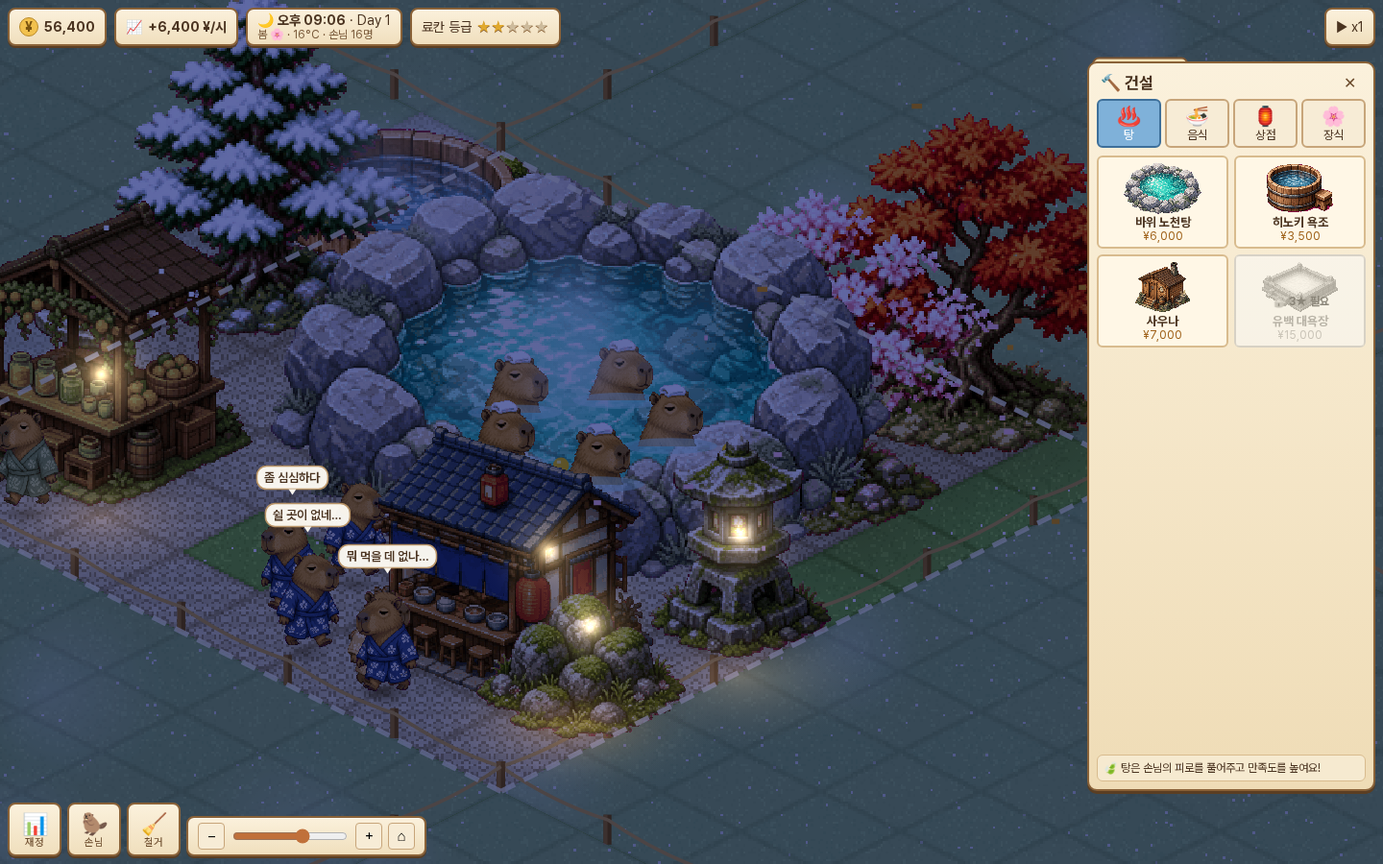
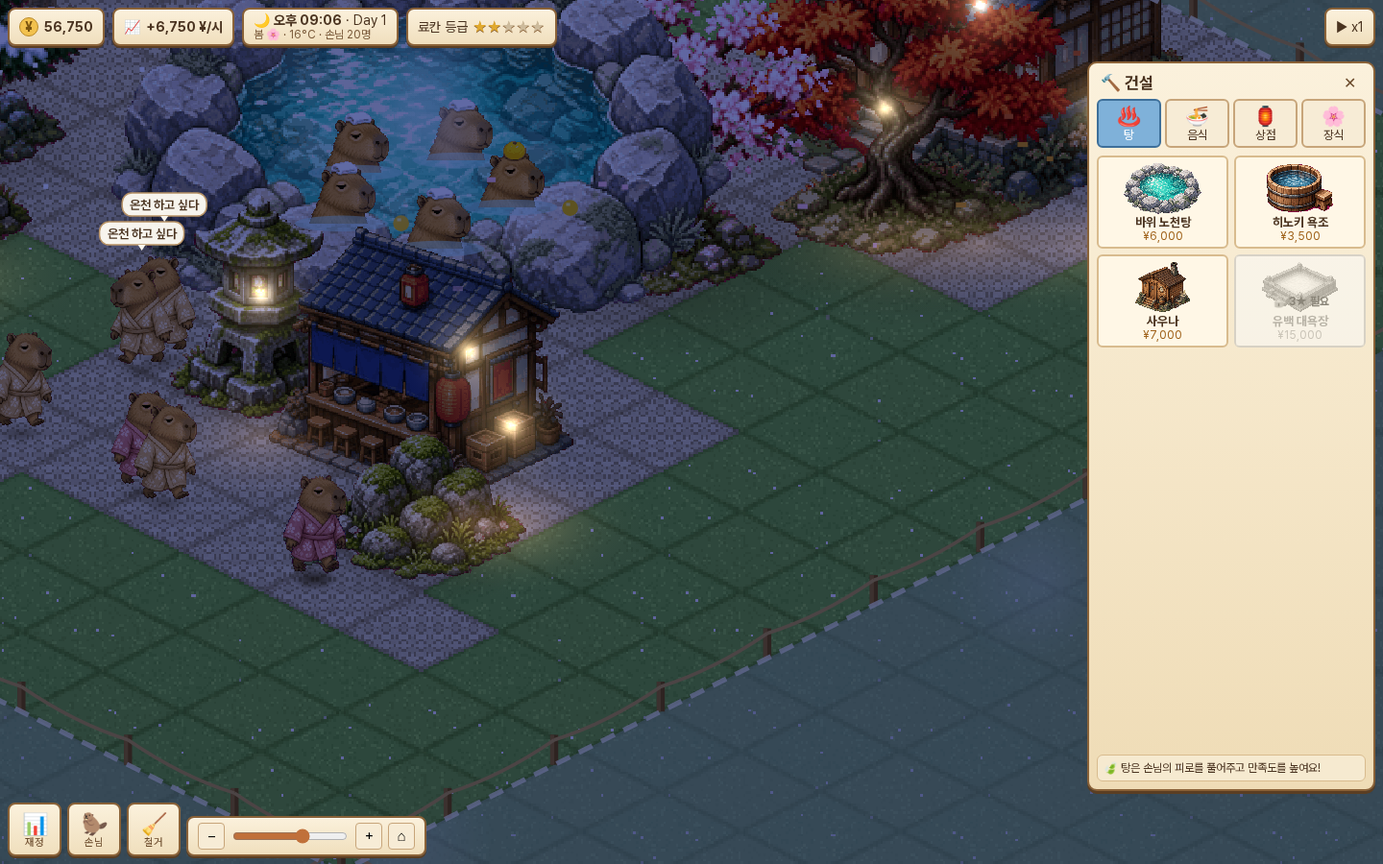
v2.2: move mode (dblclick/double-tap/long-press, info 이동 button), 16x16 plots on 48x48 map, layout migration, cached tile textures, dynamic zoom-out limit

diff --git a/game.js b/game.js
@@ -1,6 +1,6 @@
 'use strict';
 // ===== 설정 =====
-const N=32,PS=8,TW=32,TH=16;           // 맵 24x24, 구역 6x6
+const N=48,PS=16,TW=32,TH=16;           // 맵 24x24, 구역 6x6
 const START_PLOT=[1,1];
 const $=id=>document.getElementById(id);
 const cv=$('c'),cx=cv.getContext('2d'),tc=$('tc'),tx=tc.getContext('2d');
@@ -32,8 +32,8 @@ let S;
 function fresh(){
  const plots={};plots[START_PLOT.join(',')]=1;
  const o=[];const b=(k,x,y)=>o.push({k,x,y,lv:1,price:DEF[k].price||0,uses:0,earn:0});
- b('rock',10,9);b('lantern',9,14);b('sakura',14,10);b('rocks',9,9);for(let i=8;i<16;i++)b('path',i,15);for(let j=13;j<15;j++)b('path',12,j);
- return {yen:8000,min:8*60+40,plots,objs:o,fin:{inc:0,exp:0,hist:[]},rep:55,t:Date.now(),served:0,ver:2};
+ b('rock',22,21);b('lantern',21,26);b('sakura',26,22);b('rocks',21,21);b('lantern',25,26);for(let j=25;j<32;j++)b('path',24,j);for(let i=19;i<30;i++)if(i!=24)b('path',i,28);
+ return {layout:16,yen:8000,min:8*60+40,plots,objs:o,fin:{inc:0,exp:0,hist:[]},rep:55,t:Date.now(),served:0,ver:2};
 }
 function load(){
  try{const d=JSON.parse(localStorage.onsen2||'null');if(d&&d.ver==2){S=d;
@@ -43,6 +43,9 @@ function load(){
    return}}catch(e){}
  S=fresh();
 }
+function migrateLayout(){if(S.layout==16)return;const old=Object.keys(S.plots).length-1;let ref=0;
+ for(const k in S.plots)if(k!='1,1')ref+=12000;S.plots={'1,1':1};S.yen+=ref;
+ for(const o of S.objs){o.x=o.x-8+20;o.y=o.y-8+20}S.layout=16;if(ref)setTimeout(()=>toast(`구역이 16×16으로 커졌어요! 추가 구역 비용 ¥${fmt(ref)} 환불`),2000)}
 function migrate(){ // 겹치거나 잠긴 땅의 건물 → 재배치 또는 환불
  const keep=[],m={};let moved=0,refund=0;const fits=(o,x,y)=>{const f=DEF[o.k].fp;for(let i=0;i<f;i++)for(let j=0;j<f;j++){if(!tileOpen(x+i,y+j)||m[(x+i)+','+(y+j)])return false}return true};
  const sorted=S.objs.filter(o=>DEF[o.k]).sort((a,b)=>(DEF[b.k].bath?1:0)-(DEF[a.k].bath?1:0)||DEF[b.k].fp-DEF[a.k].fp);
@@ -70,12 +73,13 @@ const iso=(x,y)=>[(x-y)*TW/2,(x+y)*TH/2];
 function toScreen(wx,wy){return[(wx*cam.z+cam.x),(wy*cam.z+cam.y)]}
 function toTile(sx,sy){const wx=(sx-cam.x)/cam.z,wy=(sy-cam.y)/cam.z;return[(wy/(TH/2)+wx/(TW/2))/2,(wy/(TH/2)-wx/(TW/2))/2]}
 function focus(tx_,ty_,z){if(z)cam.z=cam.tz=z;const[wx,wy]=iso(tx_,ty_);cam.x=VW*(VW>820?0.42:0.5)-wx*cam.z;cam.y=VH*(VW>820?0.5:0.33)-wy*cam.z}
-function zoomAt(sx,sy,z){z=Math.max(0.5,Math.min(8,z));cam.x=sx-(sx-cam.x)*z/cam.z;cam.y=sy-(sy-cam.y)*z/cam.z;cam.z=z}
+const zmin=()=>Math.min(0.5,Math.min(VW/(N*TW+60),VH/(N*TH+80))*0.95);
+function zoomAt(sx,sy,z){z=Math.max(zmin(),Math.min(8,z));cam.x=sx-(sx-cam.x)*z/cam.z;cam.y=sy-(sy-cam.y)*z/cam.z;cam.z=z}
 // ===== 구역 =====
 const plotOf=(x,y)=>[Math.floor(x/PS),Math.floor(y/PS)];
 const plotOpen=(px,py)=>!!S.plots[px+','+py];
 const tileOpen=(x,y)=>x>=0&&y>=0&&x<N&&y<N&&plotOpen(...plotOf(x,y));
-function plotPrice(px,py){const d=Math.abs(px-START_PLOT[0])+Math.abs(py-START_PLOT[1]);return Math.round(12000*Math.pow(2.3,d-1)/1000)*1000}
+function plotPrice(px,py){const d=Math.abs(px-START_PLOT[0])+Math.abs(py-START_PLOT[1]);return d<=1?20000:90000}
 function plotAdj(px,py){return [[1,0],[-1,0],[0,1],[0,-1]].some(([a,b])=>plotOpen(px+a,py+b))}
 const anims={};
 // ===== 지면 (오프스크린 픽셀 텍스처) =====
@@ -92,24 +96,34 @@ function buildGround(){
  for(let y=0;y<N;y++)for(let x=0;x<N;x++){
   const r=rng(x*928371+y*1237+7);const[ix,iy]=iso(x,y);const X=ox+ix,Y=iy;
   const key=x+','+y,isPath=pathSet.has(key),cob=isPath||near.has(key);
-  const id=g.createImageData(TW*2,TH*2);
-  for(let py=0;py<TH*2;py++)for(let px=0;px<TW*2;px++){
-   const dx=Math.abs(px+0.5-TW)/(TW),dy=Math.abs(py+0.5-TH)/(TH);if(dx+dy>1)continue;
-   let c;const n=r();
-   if(false){}if(cob){const sx=Math.floor((px+py*2)/7),sy=Math.floor((px-py*2+140)/7);const seam=((px+py*2)%7==0)||((px-py*2+140)%7==0);
-     const v=((sx*7+sy*13+x*3+y*5)%5)*6;c=seam?[150,140,124]:[196+v-n*10,186+v-n*10,166+v-n*8];}
-   else{const v=n<0.08?22:n<0.2?-12:0;const fl=n>0.995;c=fl?[255,240,246]:[118+v+((x+y)%2)*4,170+v,92+v*0.6];
-     if(n>0.985&&!fl)c=[150,196,108];}
-   const i=(py*TW*2+px)*4;id.data[i]=c[0];id.data[i+1]=c[1];id.data[i+2]=c[2];id.data[i+3]=255;}
-  const tmp=mk(TW*2,TH*2);tmp.getContext('2d').putImageData(id,0,0);g.drawImage(tmp,X-TW/2,Y,TW,TH);
+  const tmp=tileTex(cob,(x*7+y*13)%12,(x+y)%2);g.drawImage(tmp,X-TW/2,Y,TW,TH);
   g.beginPath();g.moveTo(X,Y+0.25);g.lineTo(X+TW/2-0.5,Y+TH/2);g.lineTo(X,Y+TH-0.25);g.lineTo(X-TW/2+0.5,Y+TH/2);g.closePath();
   g.lineWidth=0.5;g.strokeStyle=cob?'rgba(90,78,62,0.45)':'rgba(48,84,36,0.42)';g.stroke();
  }
  groundDirty=false;
 }
+const TEX={};
+function tileTex(cob,vr,par){const key=cob+'_'+vr+'_'+par;if(TEX[key])return TEX[key];const x=vr,y=vr*3+par;const r=rng(vr*928371+par*1237+(cob?99:7));
+  const id=new ImageData(TW*2,TH*2);
+  for(let py=0;py<TH*2;py++)for(let px=0;px<TW*2;px++){
+   const dx=Math.abs(px+0.5-TW)/(TW),dy=Math.abs(py+0.5-TH)/(TH);if(dx+dy>1)continue;
+   let c;const n=r();
+   if(false){}if(cob){const sx=Math.floor((px+py*2)/7),sy=Math.floor((px-py*2+140)/7);const seam=((px+py*2)%7==0)||((px-py*2+140)%7==0);
+     const v=((sx*7+sy*13+x*3+y*5)%5)*6;c=seam?[150,140,124]:[196+v-n*10,186+v-n*10,166+v-n*8];}
+   else{const v=n<0.08?22:n<0.2?-12:0;const fl=n>0.995;c=fl?[255,240,246]:[118+v+par*4,170+v,92+v*0.6];
+     if(n>0.985&&!fl)c=[150,196,108];}
+   const i=(py*TW*2+px)*4;id.data[i]=c[0];id.data[i+1]=c[1];id.data[i+2]=c[2];id.data[i+3]=255;}
+  const tmp=mk(TW*2,TH*2);tmp.getContext('2d').putImageData(id,0,0);return TEX[key]=tmp}
 // ===== 오브젝트 =====
-const occ=()=>{const m={};for(const o of S.objs){const f=DEF[o.k].fp;for(let i=0;i<f;i++)for(let j=0;j<f;j++)m[(o.x+i)+','+(o.y+j)]=o}return m};
-let OCC={};
+const occ=()=>{const m={};for(const o of S.objs){if(o===moving)continue;const f=DEF[o.k].fp;for(let i=0;i<f;i++)for(let j=0;j<f;j++)m[(o.x+i)+','+(o.y+j)]=o}return m};
+let OCC={};let moving=null,infoT=null;
+function startMove(o){clearTimeout(infoT);if(moving)cancelMove();$('info').style.display='none';mode=null;
+ guests.forEach(g=>{if(g.cur===o)finish(g);if(g.target===o){g.target=null;g.path=[]}});
+ moving=o;o._from=[o.x,o.y];ghost=o.k;OCC=occ();groundDirty=true;$('moveBar').style.display='flex';toast('놓을 곳을 눌러주세요 (Esc·우클릭 취소)')}
+function dropMove(x,y){const o=moving;if(!canPlace(o.k,x,y)){toast('여기엔 놓을 수 없어요');return}o.x=x;o.y=y;endMove();anims['o'+S.objs.indexOf(o)]={t:0};
+ for(let i=0;i<8;i++)parts.push({k:'steam',x:x+DEF[o.k].fp/2+(Math.random()-0.5)*DEF[o.k].fp,y:y+DEF[o.k].fp/2,h:0,vx:0,l:1,L:1,s:2});save()}
+function cancelMove(){if(!moving)return;moving.x=moving._from[0];moving.y=moving._from[1];endMove()}
+function endMove(){if(moving)delete moving._from;moving=null;ghost=null;OCC=occ();groundDirty=true;$('moveBar').style.display='none';guests.forEach(g=>{if(g.st=='walk'&&g.target){const t=g.target;g.target=null;g.path=[]}});buildCards()}
 function canPlace(k,x,y){const f=DEF[k].fp;for(let i=0;i<f;i++)for(let j=0;j<f;j++){if(!tileOpen(x+i,y+j)||OCC[(x+i)+','+(y+j)])return false}return true}
 function stars(){let s=S.rep*0.6;for(const o of S.objs){const d=DEF[o.k];s+=(d.appeal||0)*o.lv*0.5+(d.beauty||0)*0.4}s+=Object.keys(S.plots).length*6;
  return s>260?5:s>170?4:s>105?3:s>60?2:1}
@@ -157,7 +171,7 @@ function doorTile(o){const f=DEF[o.k].fp;const c=[[o.x+(f>>1),o.y+f],[o.x+f,o.y+
 function door(o){const d=doorTile(o)||[o.x,o.y+DEF[o.k].fp];return[d[0]+0.5,d[1]+0.5]}
 function findPath(sx,sy,ex,ey){sx|=0;sy|=0;ex|=0;ey|=0;if(sx==ex&&sy==ey)return[];
  const K=(x,y)=>y*N+x,open=[[0,sx,sy]],g={},from={};g[K(sx,sy)]=0;let it=0;
- while(open.length&&it++<3000){let bi=0;for(let i=1;i<open.length;i++)if(open[i][0]<open[bi][0])bi=i;const[,x,y]=open.splice(bi,1)[0];
+ while(open.length&&it++<9000){let bi=0;for(let i=1;i<open.length;i++)if(open[i][0]<open[bi][0])bi=i;const[,x,y]=open.splice(bi,1)[0];
   if(x==ex&&y==ey){const p=[];let k=K(x,y);while(k!=K(sx,sy)){p.unshift([k%N+0.5,Math.floor(k/N)+0.5]);k=from[k]}return p}
   for(const[dx,dy]of[[1,0],[-1,0],[0,1],[0,-1]]){const nx=x+dx,ny=y+dy;if(!(nx==ex&&ny==ey)&&!walkable(nx,ny))continue;
    const o=OCC[nx+','+ny];const c=g[K(x,y)]+(o&&o.k=='path'?0.6:1);if(g[K(nx,ny)]==null||c<g[K(nx,ny)]){g[K(nx,ny)]=c;from[K(nx,ny)]=K(x,y);open.push([c+Math.abs(ex-nx)+Math.abs(ey-ny),nx,ny])}}}
@@ -233,7 +247,7 @@ function render(t){
  drawPlots(t,lt);
  // 그림자 + 오브젝트 + 손님 정렬
  const list=[];
- for(const o of S.objs){if(o.k=='path')continue;const f=DEF[o.k].fp;list.push({x0:o.x,y0:o.y,x1:o.x+f,y1:o.y+f,o})}
+ for(const o of S.objs){if(o.k=='path'||o===moving)continue;const f=DEF[o.k].fp;list.push({x0:o.x,y0:o.y,x1:o.x+f,y1:o.y+f,o})}
  for(const g of guests)if(!g.hide&&!g.inBath)list.push({x0:g.x-0.15,y0:g.y-0.15,x1:g.x+0.15,y1:g.y+0.15,g});
  list.forEach(a=>a.z=a.x1+a.y1);
  const cmp=(a,b)=>{if(a.x1<=b.x0+1e-3&&!(b.x1<=a.x0))return a.y0>=b.y1?1:-1;if(b.x1<=a.x0+1e-3)return b.y0>=a.y1?-1:1;if(a.y1<=b.y0+1e-3)return -1;if(b.y1<=a.y0+1e-3)return 1;return a.z-b.z};
@@ -290,7 +304,7 @@ function drawGrid(){const P=N/PS;
   for(const[a,b,on]of E)if(on){cx.moveTo(...iso(...a));cx.lineTo(...iso(...b))}}cx.stroke();cx.restore()}
 const easeOut=t=>1-Math.pow(1-t,3);
 function glow(X,Y,r,c){const g=cx.createRadialGradient(X,Y,0,X,Y,r);g.addColorStop(0,c);g.addColorStop(1,'rgba(0,0,0,0)');cx.fillStyle=g;cx.fillRect(X-r,Y-r,r*2,r*2)}
-function drawForest(lt){const r=rng(42);for(let i=0;i<70;i++){const side=i%2;const k=r()*N;const x=side?-1.5-r()*3:k,y=side?k:-1.5-r()*3;const[X,Y]=iso(x,y);
+function drawForest(lt){const r=rng(42);for(let i=0;i<160;i++){const side=i%2;const k=r()*N;const x=side?-1.5-r()*3:k,y=side?k:-1.5-r()*3;const[X,Y]=iso(x,y);
   cx.fillStyle=`rgb(${60+r()*20|0},${104+r()*25|0},${70+r()*15|0})`;const h=18+r()*18;cx.beginPath();cx.moveTo(X,Y-h);cx.lineTo(X+9,Y);cx.lineTo(X-9,Y);cx.fill();
   cx.fillStyle='rgba(255,255,255,0.08)';cx.beginPath();cx.moveTo(X,Y-h);cx.lineTo(X-9,Y);cx.lineTo(X-3,Y);cx.fill()}}
 function drawWater(o,G,t,lt){const d=DEF[o.k],f=d.fp;const[cX,cY]=iso(o.x+f/2,o.y+f/2);const rx=f*TW*0.25,ry=f*TH*0.25;
@@ -321,11 +335,11 @@ function drawPlots(t,lt){const P=N/PS;window._signs=[];
   cx.beginPath();cx.moveTo(...c[0]);c.slice(1).forEach(p=>cx.lineTo(...p));cx.closePath();
   cx.save();cx.clip();cx.fillStyle=`rgba(200,214,206,${0.42*fog})`;cx.fill();cx.fillStyle=`rgba(70,90,90,${0.12*fog})`;cx.fill();
   // 안개 덩어리
-  const r=rng(px*7+py*13+3);for(let i=0;i<5;i++){const fx=x0+r()*PS,fy=y0+r()*PS;const[X,Y]=iso(fx,fy);const s=10+r()*10;const g=cx.createRadialGradient(X+Math.sin(t/4000+i)*6,Y,0,X,Y,s);g.addColorStop(0,`rgba(255,255,255,${0.22*fog})`);g.addColorStop(1,'rgba(255,255,255,0)');cx.fillStyle=g;cx.fillRect(X-s,Y-s,s*2,s*2)}cx.restore();
+  const r=rng(px*7+py*13+3);for(let i=0;i<14;i++){const fx=x0+r()*PS,fy=y0+r()*PS;const[X,Y]=iso(fx,fy);const s=10+r()*10;const g=cx.createRadialGradient(X+Math.sin(t/4000+i)*6,Y,0,X,Y,s);g.addColorStop(0,`rgba(255,255,255,${0.22*fog})`);g.addColorStop(1,'rgba(255,255,255,0)');cx.fillStyle=g;cx.fillRect(X-s,Y-s,s*2,s*2)}cx.restore();
   if(!open&&plotAdj(px,py)){ // 로프 울타리
    cx.strokeStyle='#c9a46a';cx.lineWidth=0.7;for(let e=0;e<4;e++){const a=c[e],b=c[(e+1)%4];
-    for(let s=0;s<=6;s++){const X=lerp(a[0],b[0],s/6),Y=lerp(a[1],b[1],s/6);cx.fillStyle='#7a5432';cx.fillRect(X-0.8,Y-6,1.6,6);cx.fillStyle='#a07448';cx.fillRect(X-0.8,Y-6,0.8,6)}
-    cx.beginPath();for(let s=0;s<6;s++){const X1=lerp(a[0],b[0],s/6),Y1=lerp(a[1],b[1],s/6),X2=lerp(a[0],b[0],(s+1)/6),Y2=lerp(a[1],b[1],(s+1)/6);cx.moveTo(X1,Y1-5);cx.quadraticCurveTo((X1+X2)/2,(Y1+Y2)/2-3,X2,Y2-5)}cx.stroke()}
+    for(let s=0;s<=12;s++){const X=lerp(a[0],b[0],s/12),Y=lerp(a[1],b[1],s/12);cx.fillStyle='#7a5432';cx.fillRect(X-0.8,Y-6,1.6,6);cx.fillStyle='#a07448';cx.fillRect(X-0.8,Y-6,0.8,6)}
+    cx.beginPath();for(let s=0;s<12;s++){const X1=lerp(a[0],b[0],s/12),Y1=lerp(a[1],b[1],s/12),X2=lerp(a[0],b[0],(s+1)/12),Y2=lerp(a[1],b[1],(s+1)/12);cx.moveTo(X1,Y1-5);cx.quadraticCurveTo((X1+X2)/2,(Y1+Y2)/2-3,X2,Y2-5)}cx.stroke()}
    const[sX,sY]=iso(x0+PS/2,y0+PS/2);cx.fillStyle='#6b4a2b';cx.fillRect(sX-1,sY-10,2,10);
    window._signs.push({px,py,X:sX,Y:sY-16,price:plotPrice(px,py)})}}}
 function drawText(t,lt){ // 고해상도 텍스트 레이어
@@ -345,7 +359,7 @@ function buildTabs(){$('tabs').innerHTML=TABS.map(([k,i,n])=>`<div class="tab ${
  document.querySelectorAll('.tab').forEach(e=>e.onclick=()=>{tab=e.dataset.k;buildTabs();buildCards();$('tip').textContent=TIPS[tab]});buildCards()}
 function buildCards(){const st=stars();$('cards').innerHTML=Object.entries(DEF).filter(([k,d])=>d.tab==tab).map(([k,d])=>`<div class="card ${ghost==k?'sel':''} ${d.star>st?'lock':''}" data-k="${k}" data-need="${d.star}★ 필요" title="${d.desc}">
  ${d.img?`<img src="assets/${d.img}.png" style="${d.filter?'filter:'+d.filter:''}">`:'<div style="height:56px;display:flex;align-items:center;justify-content:center;font-size:30px">🪨</div>'}<b>${d.n}</b><span class="p">¥${fmt(d.cost)}</span></div>`).join('');
- document.querySelectorAll('.card').forEach(e=>e.onclick=()=>{const k=e.dataset.k;if(DEF[k].star>stars())return toast(`료칸 등급 ${DEF[k].star}★ 에서 해금돼요`);ghost=ghost==k?null:k;mode=null;$('tDel').classList.remove('on');buildCards();if(ghost)toast('놓을 곳을 눌러주세요 (Esc 취소)')})}
+ document.querySelectorAll('.card').forEach(e=>e.onclick=()=>{const k=e.dataset.k;if(moving)cancelMove();if(DEF[k].star>stars())return toast(`료칸 등급 ${DEF[k].star}★ 에서 해금돼요`);ghost=ghost==k?null:k;mode=null;$('tDel').classList.remove('on');buildCards();if(ghost)toast('놓을 곳을 눌러주세요 (Esc 취소)')})}
 let lastStars=0;
 function hud(){const lt=light();$('yen').textContent=fmt(S.yen);const n=S.fin.hist.length?avgNet():(S.fin._h||0);$('ihr').textContent=(n>=0?'+':'')+fmt(n)+' ¥/시';
  const h=hour(),m=Math.floor(S.min%60);$('time').textContent=`${h<12?'오전':'오후'} ${String(Math.floor(h%12)||12).padStart(2,'0')}:${String(m).padStart(2,'0')}`;
@@ -359,10 +373,10 @@ function showInfo(o){const d=DEF[o.k];const el=$('info');el.style.display='block
  (d.price?`<div class="row"><span>이용 요금</span><b>¥${fmt(o.price)}</b></div><div style="display:flex;gap:4px;margin:4px 0"><button class="b g" data-p="-0.1">−10%</button><button class="b g" data-p="0.1">+10%</button><button class="b g" data-p="0">기본</button></div>
   <div class="row"><span>이용 중</span><b>${users}/${d.cap+o.lv-1}</b></div><div class="row"><span>누적 이용</span><b>${o.uses||0}회</b></div><div class="row"><span>누적 매출</span><b>¥${fmt(o.earn||0)}</b></div><div class="row"><span>직원 급여</span><b>¥${fmt(d.wage*o.lv)}/시</b></div>
   <div style="font-size:12px;color:#7a5a3a;margin-top:4px">적정가 약 ¥${fmt(d.price*(1+o.lv*0.12))} · 너무 비싸면 손님이 돌아가요</div>`:`<div class="row"><span>아름다움</span><b>+${d.beauty}</b></div>`)+
- `<div style="margin-top:6px">${o.lv<5&&d.price?`<button class="b" id="iUp">업그레이드 ¥${fmt(up)}</button>`:''}<button class="b g" id="iDel">철거</button><button class="b g" id="iCl">닫기</button></div>`;
+ `<div style="margin-top:6px">${o.lv<5&&d.price?`<button class="b" id="iUp">업그레이드 ¥${fmt(up)}</button>`:''}<button class="b g" id="iMove">이동</button><button class="b g" id="iDel">철거</button><button class="b g" id="iCl">닫기</button></div>`;
  el.querySelectorAll('[data-p]').forEach(b=>b.onclick=()=>{const p=+b.dataset.p;o.price=p==0?d.price:Math.max(50,Math.round(o.price*(1+p)/10)*10);showInfo(o)});
  if($('iUp'))$('iUp').onclick=()=>{if(S.yen<up)return toast('엔이 부족해요');S.yen-=up;S.fin.exp+=up;o.lv++;anims['o'+S.objs.indexOf(o)]={t:0};toast(`${d.n} Lv.${o.lv}!`);showInfo(o);save()};
- $('iDel').onclick=()=>remove(o);$('iCl').onclick=()=>el.style.display='none';}
+ $('iDel').onclick=()=>remove(o);$('iMove').onclick=()=>startMove(o);$('iCl').onclick=()=>el.style.display='none';}
 function remove(o){if(S.objs.length<=1)return;S.yen+=Math.floor(DEF[o.k].cost*0.4);guests.forEach(g=>{if(g.cur===o)finish(g);if(g.target===o)g.target=null});S.objs.splice(S.objs.indexOf(o),1);OCC=occ();groundDirty=true;$('info').style.display='none';save()}
 function modalFin(){const m=$('modal');const wages=S.objs.reduce((s,o)=>s+(DEF[o.k].wage||0)*o.lv,0),up=S.objs.length*8;
  const rows=S.objs.filter(o=>DEF[o.k].price).sort((a,b)=>(b.earn||0)-(a.earn||0)).slice(0,8).map(o=>`<div class="row"><span>${DEF[o.k].n} Lv.${o.lv}</span><b>¥${fmt(o.earn||0)}</b></div>`).join('');
@@ -374,27 +388,33 @@ function modalGuest(){const m=$('modal');const n=guests.length||1;const avg=k=>g
  <h3 style="margin-top:8px">평균 욕구 (높을수록 필요)</h3>${NEEDK.map(k=>bar(NEEDN[k],guests.length?avg(k):0,'#d98a5a')).join('')}
  <div style="font-size:12px;color:#7a5a3a">팁: 욕구에 맞는 시설이 없으면 기분이 떨어져요. 장식 근처를 걸으면 기분이 좋아져요.</div><div style="text-align:right"><button class="b" onclick="this.closest('.panel').style.display='none'">닫기</button></div>`;m.style.display='block'}
 // ===== 입력 =====
-const ptrs=new Map();let drag=null,pinch=null;
+const ptrs=new Map();let drag=null,pinch=null,lp=null,lastTap={};
 function onTap(sx,sy){const[fx,fy]=toTile(sx,sy);const x=Math.floor(fx),y=Math.floor(fy);
  for(const s of window._signs||[]){const[X,Y]=toScreen(s.X,s.Y);if(Math.abs(sx-X)<16*cam.z/1.5+10&&Math.abs(sy-Y)<10*cam.z/1.5+8){unlock(s);return}}
  if(ghost){if(!canPlace(ghost,x,y))return toast(tileOpen(x,y)?'여기엔 지을 수 없어요':'잠긴 구역이에요. 표지판을 눌러 열어주세요');const d=DEF[ghost];if(S.yen<d.cost)return toast('엔이 부족해요');
   S.yen-=d.cost;S.fin.exp+=d.cost;S.objs.push({k:ghost,x,y,lv:1,price:d.price||0,uses:0,earn:0});anims['o'+(S.objs.length-1)]={t:0};OCC=occ();groundDirty=true;
   for(let i=0;i<10;i++)parts.push({k:'steam',x:x+d.fp/2+(Math.random()-0.5)*d.fp,y:y+d.fp/2+(Math.random()-0.5)*d.fp,h:0,vx:0,l:1,L:1,s:2});if(ghost=='path'){}else if(!ev.shift){ghost=null;buildCards()}save();return}
- const o=OCC[x+','+y];if(o){if(mode=='del'){remove(o);return}showInfo(o)}else $('info').style.display='none'}
+ const o=OCC[x+','+y];if(o){if(mode=='del'){remove(o);return}clearTimeout(infoT);infoT=setTimeout(()=>{if(!moving)showInfo(o)},330)}else $('info').style.display='none'}
 function unlock(s){const k=s.px+','+s.py;if(S.yen<s.price)return toast(`구역 확장에 ¥${fmt(s.price)} 필요해요`);S.yen-=s.price;S.fin.exp+=s.price;S.plots[k]=1;anims['p'+k]={t:0};toast('🎉 새 구역이 열렸어요!');
  for(let i=0;i<40;i++)parts.push({k:'petal',x:s.px*PS+Math.random()*PS,y:s.py*PS+Math.random()*PS,h:20+Math.random()*30,l:3,L:3,ph:Math.random()*6});save()}
 const ev={shift:false};
 function initInput(){
- cv.addEventListener('pointerdown',e=>{ptrs.set(e.pointerId,{x:e.clientX,y:e.clientY});ev.shift=e.shiftKey;if(ptrs.size==1)drag={x:e.clientX,y:e.clientY,cx:cam.x,cy:cam.y,m:false};else{const p=[...ptrs.values()];pinch={d:Math.hypot(p[0].x-p[1].x,p[0].y-p[1].y),z:cam.z};drag=null}});
+ cv.addEventListener('pointerdown',e=>{ptrs.set(e.pointerId,{x:e.clientX,y:e.clientY});clearTimeout(lp);if(e.pointerType!='mouse'&&!moving&&!ghost){const sx=e.clientX,sy=e.clientY;lp=setTimeout(()=>{if(drag&&!drag.m&&ptrs.size==1){const[a,b]=toTile(sx,sy);const o=OCC[Math.floor(a)+','+Math.floor(b)];if(o){drag.lp=true;startMove(o)}}},550)}ev.shift=e.shiftKey;if(ptrs.size==1)drag={x:e.clientX,y:e.clientY,cx:cam.x,cy:cam.y,m:false};else{const p=[...ptrs.values()];pinch={d:Math.hypot(p[0].x-p[1].x,p[0].y-p[1].y),z:cam.z};drag=null}});
  cv.addEventListener('pointermove',e=>{const[a,b]=toTile(e.clientX,e.clientY);hoverT=[Math.floor(a-(ghost?DEF[ghost].fp/2-0.5:0)),Math.floor(b-(ghost?DEF[ghost].fp/2-0.5:0))];if(!ptrs.has(e.pointerId))return;ptrs.set(e.pointerId,{x:e.clientX,y:e.clientY});
   if(pinch&&ptrs.size==2){const p=[...ptrs.values()];zoomAt((p[0].x+p[1].x)/2,(p[0].y+p[1].y)/2,pinch.z*Math.hypot(p[0].x-p[1].x,p[0].y-p[1].y)/pinch.d);cam.tz=cam.z}
-  else if(drag){const dx=e.clientX-drag.x,dy=e.clientY-drag.y;if(Math.abs(dx)+Math.abs(dy)>6)drag.m=true;if(drag.m){cam.x=drag.cx+dx;cam.y=drag.cy+dy}}});
- cv.addEventListener('pointerup',e=>{if(drag&&!drag.m&&ptrs.size==1){if(ghost){const[a,b]=toTile(e.clientX,e.clientY);hoverT=[Math.floor(a-(DEF[ghost].fp/2-0.5)),Math.floor(b-(DEF[ghost].fp/2-0.5))];placeAt()}else onTap(e.clientX,e.clientY)}ptrs.delete(e.pointerId);if(ptrs.size<2)pinch=null;drag=null});
+  else if(drag){const dx=e.clientX-drag.x,dy=e.clientY-drag.y;if(Math.abs(dx)+Math.abs(dy)>6){drag.m=true;clearTimeout(lp)}if(drag.m){cam.x=drag.cx+dx;cam.y=drag.cy+dy}}});
+ cv.addEventListener('pointerup',e=>{clearTimeout(lp);if(drag&&drag.lp){ptrs.delete(e.pointerId);drag=null;return}
+  if(drag&&!drag.m&&!moving&&!ghost&&mode!='del'){const now=performance.now();const[a,b]=toTile(e.clientX,e.clientY);const o=OCC[Math.floor(a)+','+Math.floor(b)];
+   if(o&&lastTap.o===o&&now-lastTap.t<400){lastTap={};ptrs.delete(e.pointerId);drag=null;startMove(o);return}lastTap={o,t:now}}
+  if(drag&&!drag.m&&ptrs.size==1){if(ghost){const[a,b]=toTile(e.clientX,e.clientY);hoverT=[Math.floor(a-(DEF[ghost].fp/2-0.5)),Math.floor(b-(DEF[ghost].fp/2-0.5))];placeAt()}else onTap(e.clientX,e.clientY)}ptrs.delete(e.pointerId);if(ptrs.size<2)pinch=null;drag=null});
  cv.addEventListener('pointercancel',e=>{ptrs.delete(e.pointerId);drag=null;pinch=null});
- cv.addEventListener('wheel',e=>{e.preventDefault();zoomTarget=[e.clientX,e.clientY];cam.tz=Math.max(0.5,Math.min(8,cam.tz*(e.deltaY<0?1.15:1/1.15)))},{passive:false});
- cv.addEventListener('contextmenu',e=>{e.preventDefault();ghost=null;buildCards()});
- addEventListener('keydown',e=>{if(e.key=='Escape'){ghost=null;mode=null;$('tDel').classList.remove('on');$('info').style.display='none';$('modal').style.display='none';buildCards()}});
- $('zs').oninput=e=>{zoomTarget=null;cam.tz=+e.target.value};$('zIn').onclick=()=>{zoomTarget=null;cam.tz=Math.min(8,cam.tz*1.3)};$('zOut').onclick=()=>{zoomTarget=null;cam.tz=Math.max(0.5,cam.tz/1.3)};
+ cv.addEventListener('wheel',e=>{e.preventDefault();zoomTarget=[e.clientX,e.clientY];cam.tz=Math.max(zmin(),Math.min(8,cam.tz*(e.deltaY<0?1.15:1/1.15)))},{passive:false});
+ cv.addEventListener('contextmenu',e=>{e.preventDefault();if(moving)return cancelMove();ghost=null;buildCards()});
+ const objAt=(sx,sy)=>{const[a,b]=toTile(sx,sy);return OCC[Math.floor(a)+','+Math.floor(b)]};
+ cv.addEventListener('dblclick',e=>{if(moving||ghost&&!moving)return;const o=objAt(e.clientX,e.clientY);if(o)startMove(o)});
+ $('mvCancel').onclick=cancelMove;
+ addEventListener('keydown',e=>{if(e.key=='Escape'){if(moving){cancelMove();return}ghost=null;mode=null;$('tDel').classList.remove('on');$('info').style.display='none';$('modal').style.display='none';buildCards()}});
+ $('zs').min=zmin().toFixed(2);$('zs').oninput=e=>{zoomTarget=null;cam.tz=+e.target.value};$('zIn').onclick=()=>{zoomTarget=null;cam.tz=Math.min(8,cam.tz*1.3)};$('zOut').onclick=()=>{zoomTarget=null;cam.tz=Math.max(zmin(),cam.tz/1.3)};
  $('zHome').onclick=()=>{const b=S.objs.find(o=>DEF[o.k].bath)||S.objs[0];homeAnim={t:0,from:{...cam},to:b}};
  $('tFin').onclick=modalFin;$('tGuest').onclick=modalGuest;
  $('tDel').onclick=()=>{mode=mode=='del'?null:'del';ghost=null;$('tDel').classList.toggle('on',mode=='del');buildCards();if(mode)toast('철거할 시설을 눌러주세요 (40% 환불)')};
@@ -403,7 +423,7 @@ function initInput(){
  $('bOpen').onclick=()=>{$('build').classList.remove('hide');$('build').style.display='';$('bOpen').style.display='none';$('tools').classList.remove('low')};
 }
 function placeAt(){const[x,y]=hoverT;const[sx,sy]=toScreenT(x+0.5,y+0.5);onTapPlace(x,y)}
-function onTapPlace(x,y){if(!canPlace(ghost,x,y))return toast(tileOpen(x,y)?'여기엔 지을 수 없어요':'잠긴 구역이에요. 표지판을 눌러 열어주세요');const d=DEF[ghost];if(S.yen<d.cost)return toast('엔이 부족해요');
+function onTapPlace(x,y){if(moving)return dropMove(x,y);if(!canPlace(ghost,x,y))return toast(tileOpen(x,y)?'여기엔 지을 수 없어요':'잠긴 구역이에요. 표지판을 눌러 열어주세요');const d=DEF[ghost];if(S.yen<d.cost)return toast('엔이 부족해요');
  S.yen-=d.cost;S.fin.exp+=d.cost;S.objs.push({k:ghost,x,y,lv:1,price:d.price||0,uses:0,earn:0});anims['o'+(S.objs.length-1)]={t:0};OCC=occ();groundDirty=true;
  for(let i=0;i<10;i++)parts.push({k:'steam',x:x+d.fp/2+(Math.random()-0.5)*d.fp,y:y+d.fp/2+(Math.random()-0.5)*d.fp,h:0,vx:0,l:1,L:1,s:2});
  if(ghost!='path'&&!ev.shift){ghost=null;buildCards()}save()}
@@ -429,7 +449,7 @@ function frame(now){const dt=Math.min(0.1,(now-last)/1000||0);last=now;
   cam.x=lerp(homeAnim.from.x,tx_,k);cam.y=lerp(homeAnim.from.y,ty_,k);if(homeAnim.t>=1)homeAnim=null}
  render(now);hud();saveAcc+=dt;if(saveAcc>5){saveAcc=0;save()}
  requestAnimationFrame(frame)}
-async function boot(){resize();addEventListener('resize',resize);load();S.objs.forEach(o=>o.users=0);migrate();OCC=occ();
+async function boot(){resize();addEventListener('resize',resize);load();S.objs.forEach(o=>o.users=0);migrateLayout();migrate();OCC=occ();
  await Promise.all([loadImgs(),document.fonts.load('700 14px Pretendard'),document.fonts.ready]);
  for(const n of NAMES)if(IMG[n])variants(n,IMG[n]);variants('milk',IMG.yuzu,DEF.milk.filter);
  // 기존 이름 매핑
@@ -441,4 +461,4 @@ async function boot(){resize();addEventListener('resize',resize);load();S.objs.f
 const _drawSprite=drawSprite;
 boot();
 // 테스트 훅
-window.__dbg={refresh(){OCC=occ();groundDirty=true},get S(){return S},setHour(h){S.min=Math.floor(S.min/1440)*1440+h*60},spawn,guests:()=>guests,focus,cam};
+window.__dbg={free(k,x0,y0){for(let r=1;r<8;r++)for(let dx=-r;dx<=r;dx++)for(let dy=-r;dy<=r;dy++)if(canPlace(k,x0+dx,y0+dy))return[x0+dx,y0+dy]},scr:(x,y)=>toScreenT(x,y),mig(){migrate();OCC=occ();groundDirty=true},get moving(){return moving},refresh(){OCC=occ();groundDirty=true},get S(){return S},setHour(h){S.min=Math.floor(S.min/1440)*1440+h*60},spawn,guests:()=>guests,focus,cam};

diff --git a/shot2.js b/shot2.js
@@ -5,10 +5,17 @@ for(const [w,h,tag] of [[1440,900,''],[390,844,'_m']]){
  p.on('pageerror',e=>errs.push(tag+' '+e.message));p.on('console',m=>m.type()=='error'&&errs.push(tag+' '+m.text()));
  await p.goto('http://localhost:8765/index.html');await p.waitForFunction(()=>window.__ready);
  await p.evaluate(()=>{const S=__dbg.S;S.yen=50000;const add=(k,x,y)=>S.objs.push({k,x,y,lv:1,price:({ramen:900,yuzu:350,hinoki:450,room:6000})[k]||0,uses:0,earn:0,users:0});
-  add('yuzu',8,13);add('ramen',13,13);add('hinoki',8,9);add('maple',14,8);add('lantern',15,12);add('pine',8,11);add('rocks',15,14);
-  __dbg.setHour(10);__dbg.refresh();for(let i=0;i<8;i++)__dbg.spawn()});
+  add('yuzu',18,23);add('ramen',27,24);add('hinoki',19,19);add('maple',27,20);add('pine',20,25);add('rocks',28,27);add('room',25,17);
+  __dbg.setHour(10);__dbg.refresh();__dbg.mig();for(let i=0;i<8;i++)__dbg.spawn()});
  await p.evaluate(()=>{location.hash='x'});
  await p.waitForTimeout(9000);await p.screenshot({path:`shot_day${tag}.png`});await p.evaluate(()=>document.querySelector('.card').click());await p.mouse.move(w*0.35,h*0.6);await p.waitForTimeout(600);await p.screenshot({path:`shot_build${tag}.png`});await p.keyboard.press('Escape');
+ // 이동 모드 테스트: 라멘집 더블클릭 → 이동 → 드롭
+ await p.evaluate(()=>{__dbg.focus(28,25)});await p.waitForTimeout(200);const pos=await p.evaluate(()=>{const o=__dbg.S.objs.find(o=>o.k=='ramen');const f=2;return __dbg.scr(o.x+1,o.y+1)});
+ await p.mouse.dblclick(pos[0],pos[1]);await p.waitForTimeout(300);const mv=await p.evaluate(()=>!!__dbg.moving);
+ const dst=await p.evaluate(()=>{const f=__dbg.free('ramen',27,26);return __dbg.scr(f[0]+1,f[1]+1)});await p.mouse.move(dst[0],dst[1]);await p.waitForTimeout(400);await p.screenshot({path:`shot_move${tag}.png`});
+ await p.mouse.click(dst[0],dst[1]);await p.waitForTimeout(300);
+ const after=await p.evaluate(()=>{const o=__dbg.S.objs.find(o=>o.k=='ramen');return [o.x,o.y,!!__dbg.moving,JSON.parse(localStorage.onsen2).objs.find(o=>o.k=='ramen').x]});
+ console.log(tag,'move',mv,after);
  await p.evaluate(()=>__dbg.setHour(21));await p.waitForTimeout(3000);await p.screenshot({path:`shot_night${tag}.png`});
  await p.evaluate(()=>{__dbg.setHour(17.6);__dbg.cam.tz=1.1});await p.waitForTimeout(2500);await p.screenshot({path:`shot_wide${tag}.png`});
 }

diff --git a/style.css b/style.css
@@ -45,3 +45,5 @@ canvas{display:block;position:fixed;left:0;top:0}#tc{pointer-events:none}
  #tools{bottom:calc(42vh + 6px)}#tools.low{bottom:8px}.tool{width:46px;height:46px;font-size:18px}.zoom input{width:80px}
  #info{top:auto;bottom:calc(42vh + 62px);width:240px}
 }
+
+#moveBar{position:fixed;top:64px;left:50%;transform:translateX(-50%);display:none;z-index:8}#moveBar button{font-family:inherit;background:#c0703a;color:#fff;border:0;border-radius:5px;padding:4px 10px;cursor:pointer}

diff --git a/index.html b/index.html
@@ -29,5 +29,6 @@
 <div id="info" class="panel"></div>
 <div id="modal" class="panel"></div>
 <div id="toast"></div>
+<div id="moveBar" class="box"><span>🔀 이동 중 — 놓을 곳을 눌러주세요</span><button id="mvCancel">취소</button></div>
 <script src="game.js"></script>
 </body></html>
